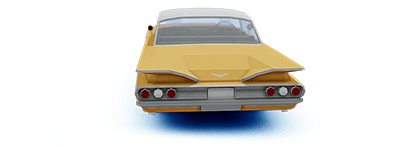
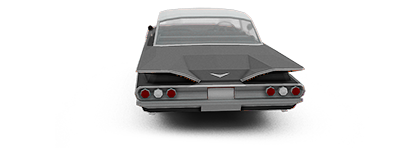
change on click

diff --git a/index.html b/index.html
@@ -34,25 +34,25 @@
 
 <!--HEADER-->
 <!--&lt;!&ndash; Header &ndash;&gt;-->
-<header class="perspective-container stars">
+<header class="perspective-container" onclick="myFunction()">
 
 
-    <div class="sun"></div>
+    <div class="sun2" id="sun"></div>
 
     <svg xmlns="http://www.w3.org/2000/svg" viewBox="0 0 1440 320" class="mountains">
-        <path fill="#dba0fa" fill-opacity="1"
+        <path id="m1" fill="#ad7007" fill-opacity="1"
               d="M0,320L110.8,32L221.5,256L332.3,256L443.1,128L553.8,32L664.6,128L775.4,64L886.2,64L996.9,160L1107.7,160L1218.5,128L1329.2,256L1440,64L1440,320L1329.2,320L1218.5,320L1107.7,320L996.9,320L886.2,320L775.4,320L664.6,320L553.8,320L443.1,320L332.3,320L221.5,320L110.8,320L0,320Z"></path>
 
-        <path fill="#0a60eb" fill-opacity="0.8"
+        <path id="m2" fill="#387d02" fill-opacity="0.8"
               d="M0,320L110.8,128L221.5,224L332.3,32L443.1,128L553.8,128L664.6,64L775.4,224L886.2,224L996.9,128L1107.7,160L1218.5,64L1329.2,160L1440,96L1440,320L1329.2,320L1218.5,320L1107.7,320L996.9,320L886.2,320L775.4,320L664.6,320L553.8,320L443.1,320L332.3,320L221.5,320L110.8,320L0,320Z"></path>
 
-        <path fill="#302a6a" fill-opacity="0.7"
+        <path id="m3" fill="#475370" fill-opacity="0.7"
               d="M0,256L42.4,96L84.7,160L127.1,256L169.4,128L211.8,96L254.1,0L296.5,224L338.8,160L381.2,96L423.5,256L465.9,192L508.2,128L550.6,96L592.9,192L635.3,160L677.6,320L720,128L762.4,96L804.7,192L847.1,320L889.4,256L931.8,0L974.1,160L1016.5,160L1058.8,288L1101.2,96L1143.5,256L1185.9,64L1228.2,160L1270.6,32L1312.9,128L1355.3,128L1397.6,64L1440,160L1440,320L1397.6,320L1355.3,320L1312.9,320L1270.6,320L1228.2,320L1185.9,320L1143.5,320L1101.2,320L1058.8,320L1016.5,320L974.1,320L931.8,320L889.4,320L847.1,320L804.7,320L762.4,320L720,320L677.6,320L635.3,320L592.9,320L550.6,320L508.2,320L465.9,320L423.5,320L381.2,320L338.8,320L296.5,320L254.1,320L211.8,320L169.4,320L127.1,320L84.7,320L42.4,320L0,320Z"></path>
     </svg>
     <div id="car">
         <img src="images/Car1.png"  id="img-car"/>
     </div>
-    <div class="bottom-background"></div>
+    <div class="bottom-background" id="bottom"></div>
 
 
 
@@ -326,6 +326,24 @@
             imgcar.src ="images/CarL7.png";
         }
 
+    }
+</script>
+
+<script>
+    function myFunction() {
+        var sun = document.getElementById("sun");
+        sun.classList.toggle("sun");
+        sun.classList.toggle("sun2");
+
+        var m1 = document.getElementById("m1");
+        var m2 = document.getElementById("m2");
+        var m3 = document.getElementById("m3");
+        m1.classList.toggle("m1");
+        m2.classList.toggle("m2");
+        m3.classList.toggle("m3");
+
+        var bottombg = document.getElementById("bottom");
+        bottombg.classList.toggle("night-bottom-bg");
     }
 </script>
 

diff --git a/css/main.css b/css/main.css
@@ -180,6 +180,7 @@ a{
     /*width: 100%;*/
     margin: auto;
     margin-top: 80px;
+    /*background-color: #fff;*/
 }
 
 .bottom-background {
@@ -213,6 +214,41 @@ animation: myanim 1s infinite;
     100% {
         background-size: 30% 200px;
     }
+}
+
+.night-bottom-bg{
+    background-size: 20px 20px;
+    background-image: linear-gradient(to right, #7cb9fd 2px, transparent 1px), linear-gradient(to bottom, #319baa 2px, transparent 1px);
+    animation: myanim2 0.7s infinite;
+}
+
+@keyframes myanim2 {
+    0% {
+        background-size: 20px 20px;
+    }
+    25% {
+        background-size: 20px 21px;
+    }
+    50% {
+        background-size: 20px 22px;
+    }
+    75% {
+        background-size: 20px 23px;
+    }
+    100% {
+        background-size: 20px 24px;
+    }
+}
+
+.sun2{
+    background: rgb(255,247,235);
+    background: radial-gradient(circle at 20% 40%, rgba(255,247,235,1) 2%, rgba(204,221,227,1) 3%, rgba(244,235,204,1) 5%, rgba(247,228,169,1) 8%, rgba(247,224,104,1) 13%, rgba(251,208,93,1) 17%, rgba(255,192,82,1) 23%, rgba(255,158,90,1) 34%, rgba(237,143,103,1) 44%, rgba(205,123,113,1) 58%, rgba(170,123,133,1) 71%, rgba(150,113,129,1) 87%, rgba(115,93,113,1) 100%);
+    /*z-index: 10;*/
+    /*opacity: 0.5;*/
+    height: 30vw;
+    width: inherit;
+    clear: both;
+    position: absolute;
 }
 
 .sun{
@@ -331,5 +367,14 @@ animation: myanim 1s infinite;
     z-index: 30!important
 }
 
+.m1{
+   fill: #dba0fa;
+}
+.m2{
+    fill: #0a60eb;
+}
+.m3{
+    fill: #302a6a;
+}
 
 
